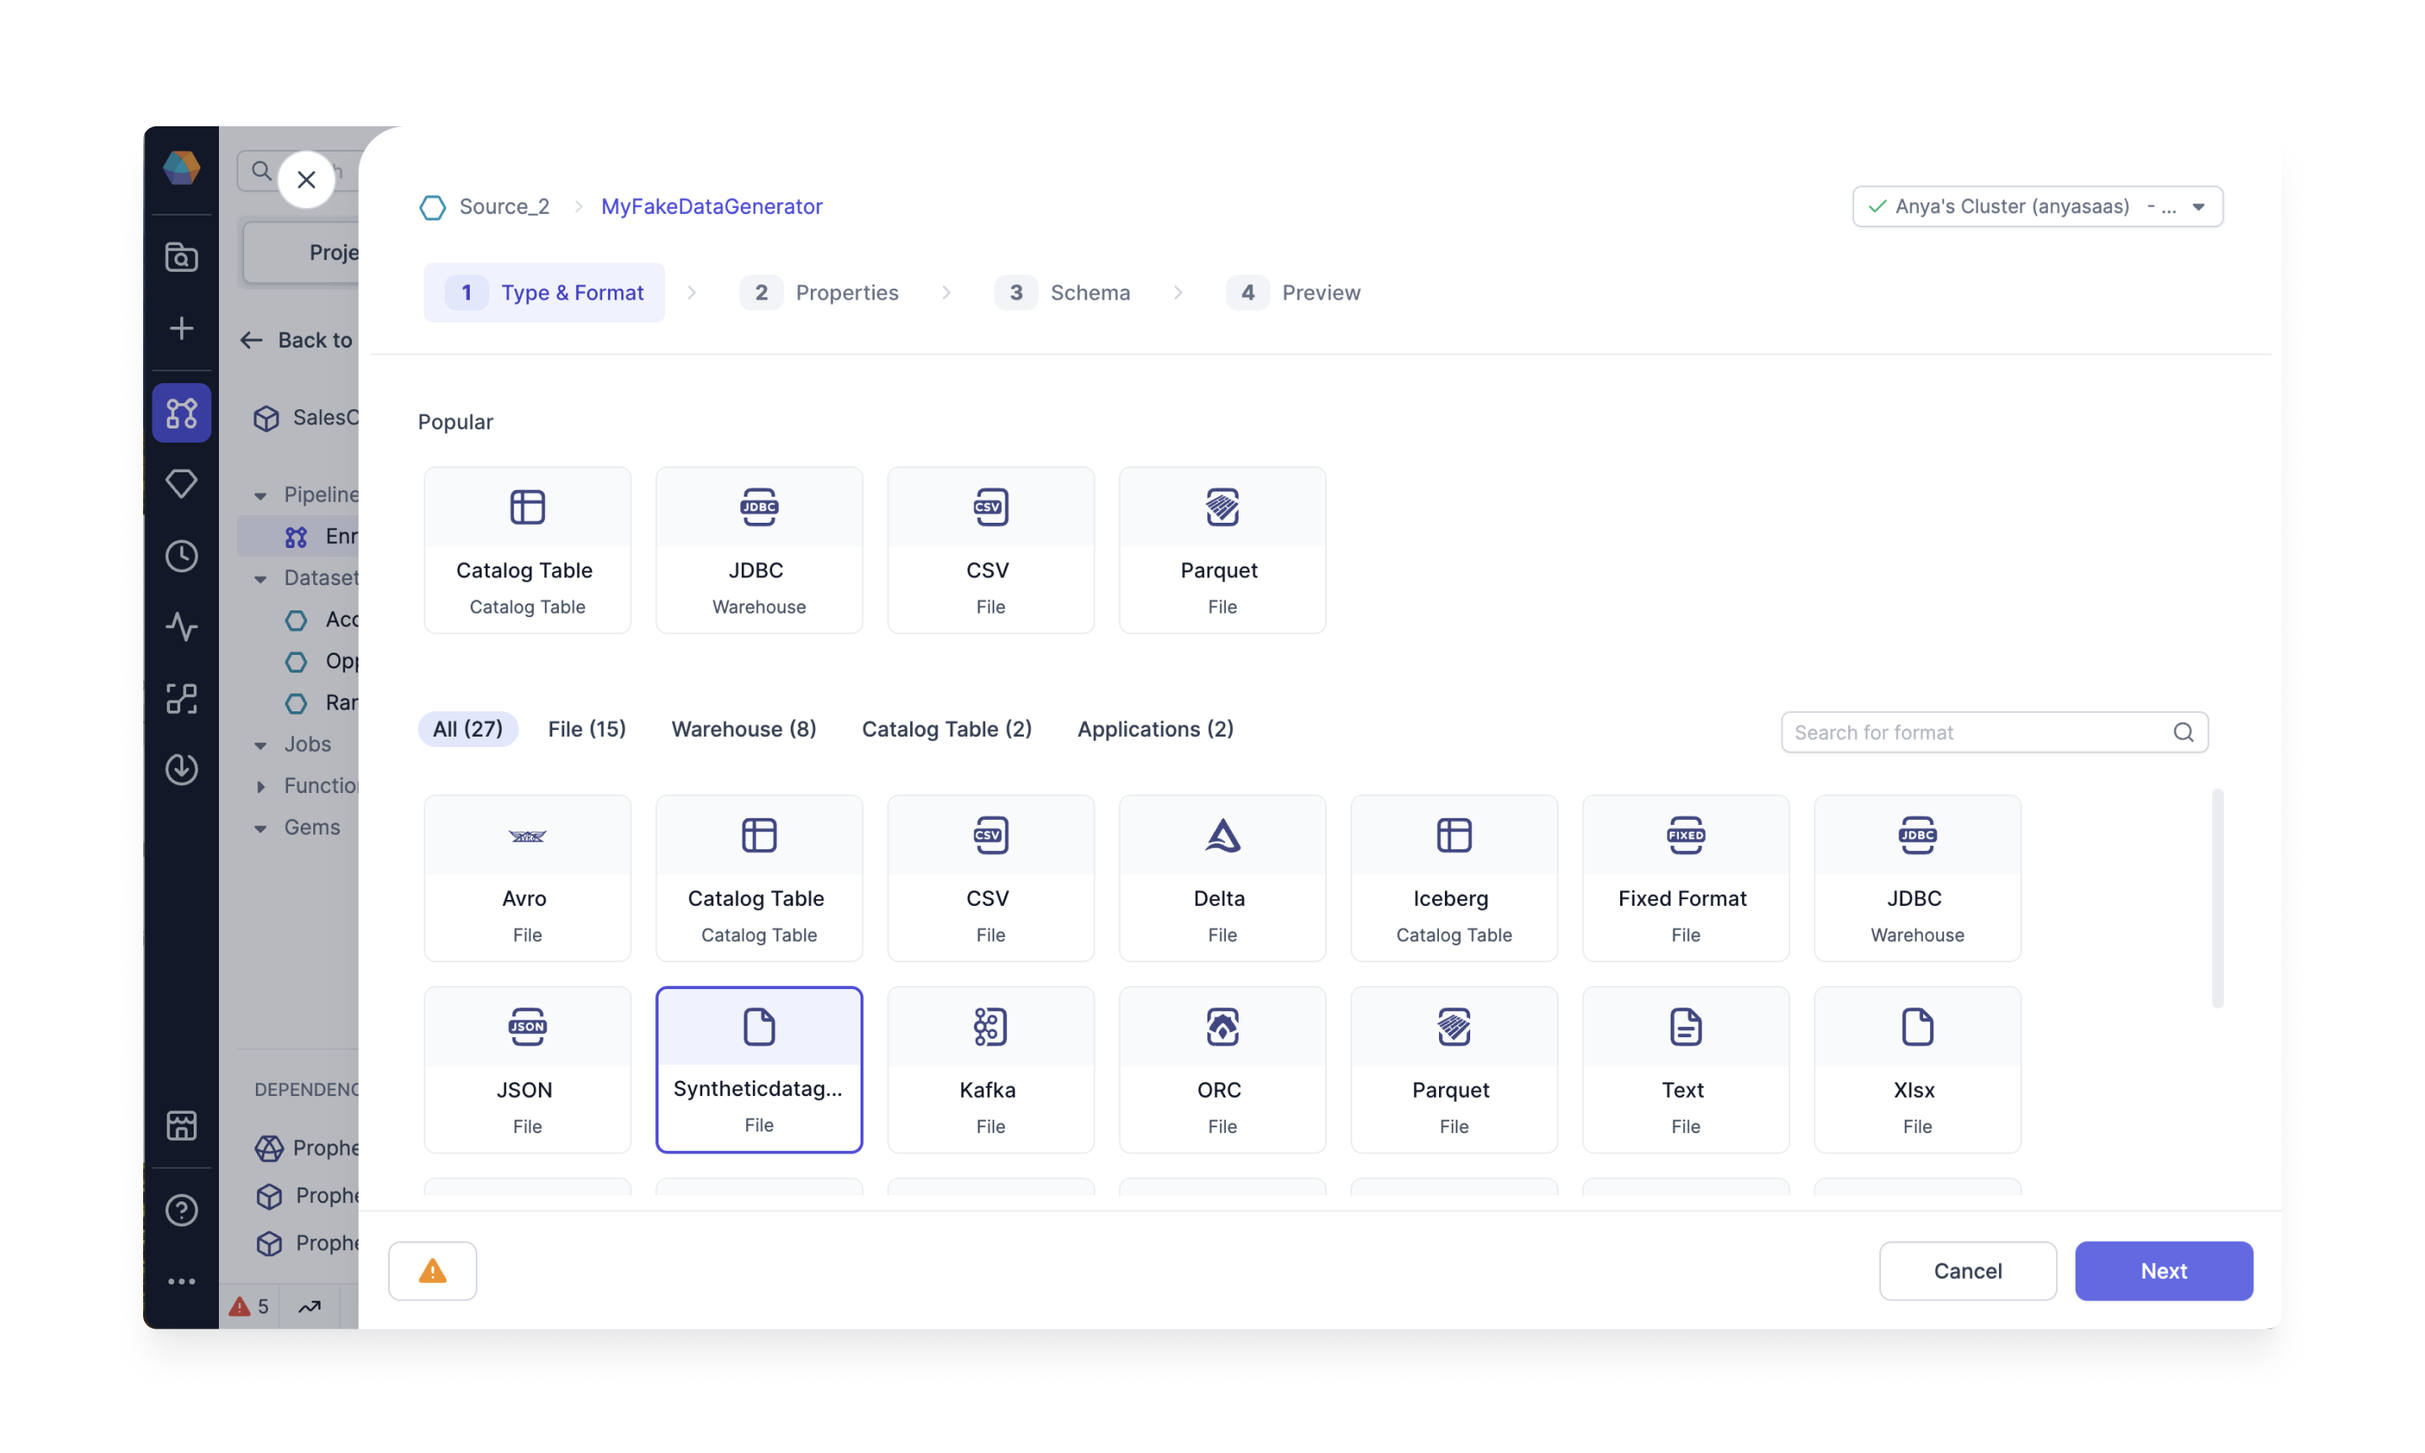
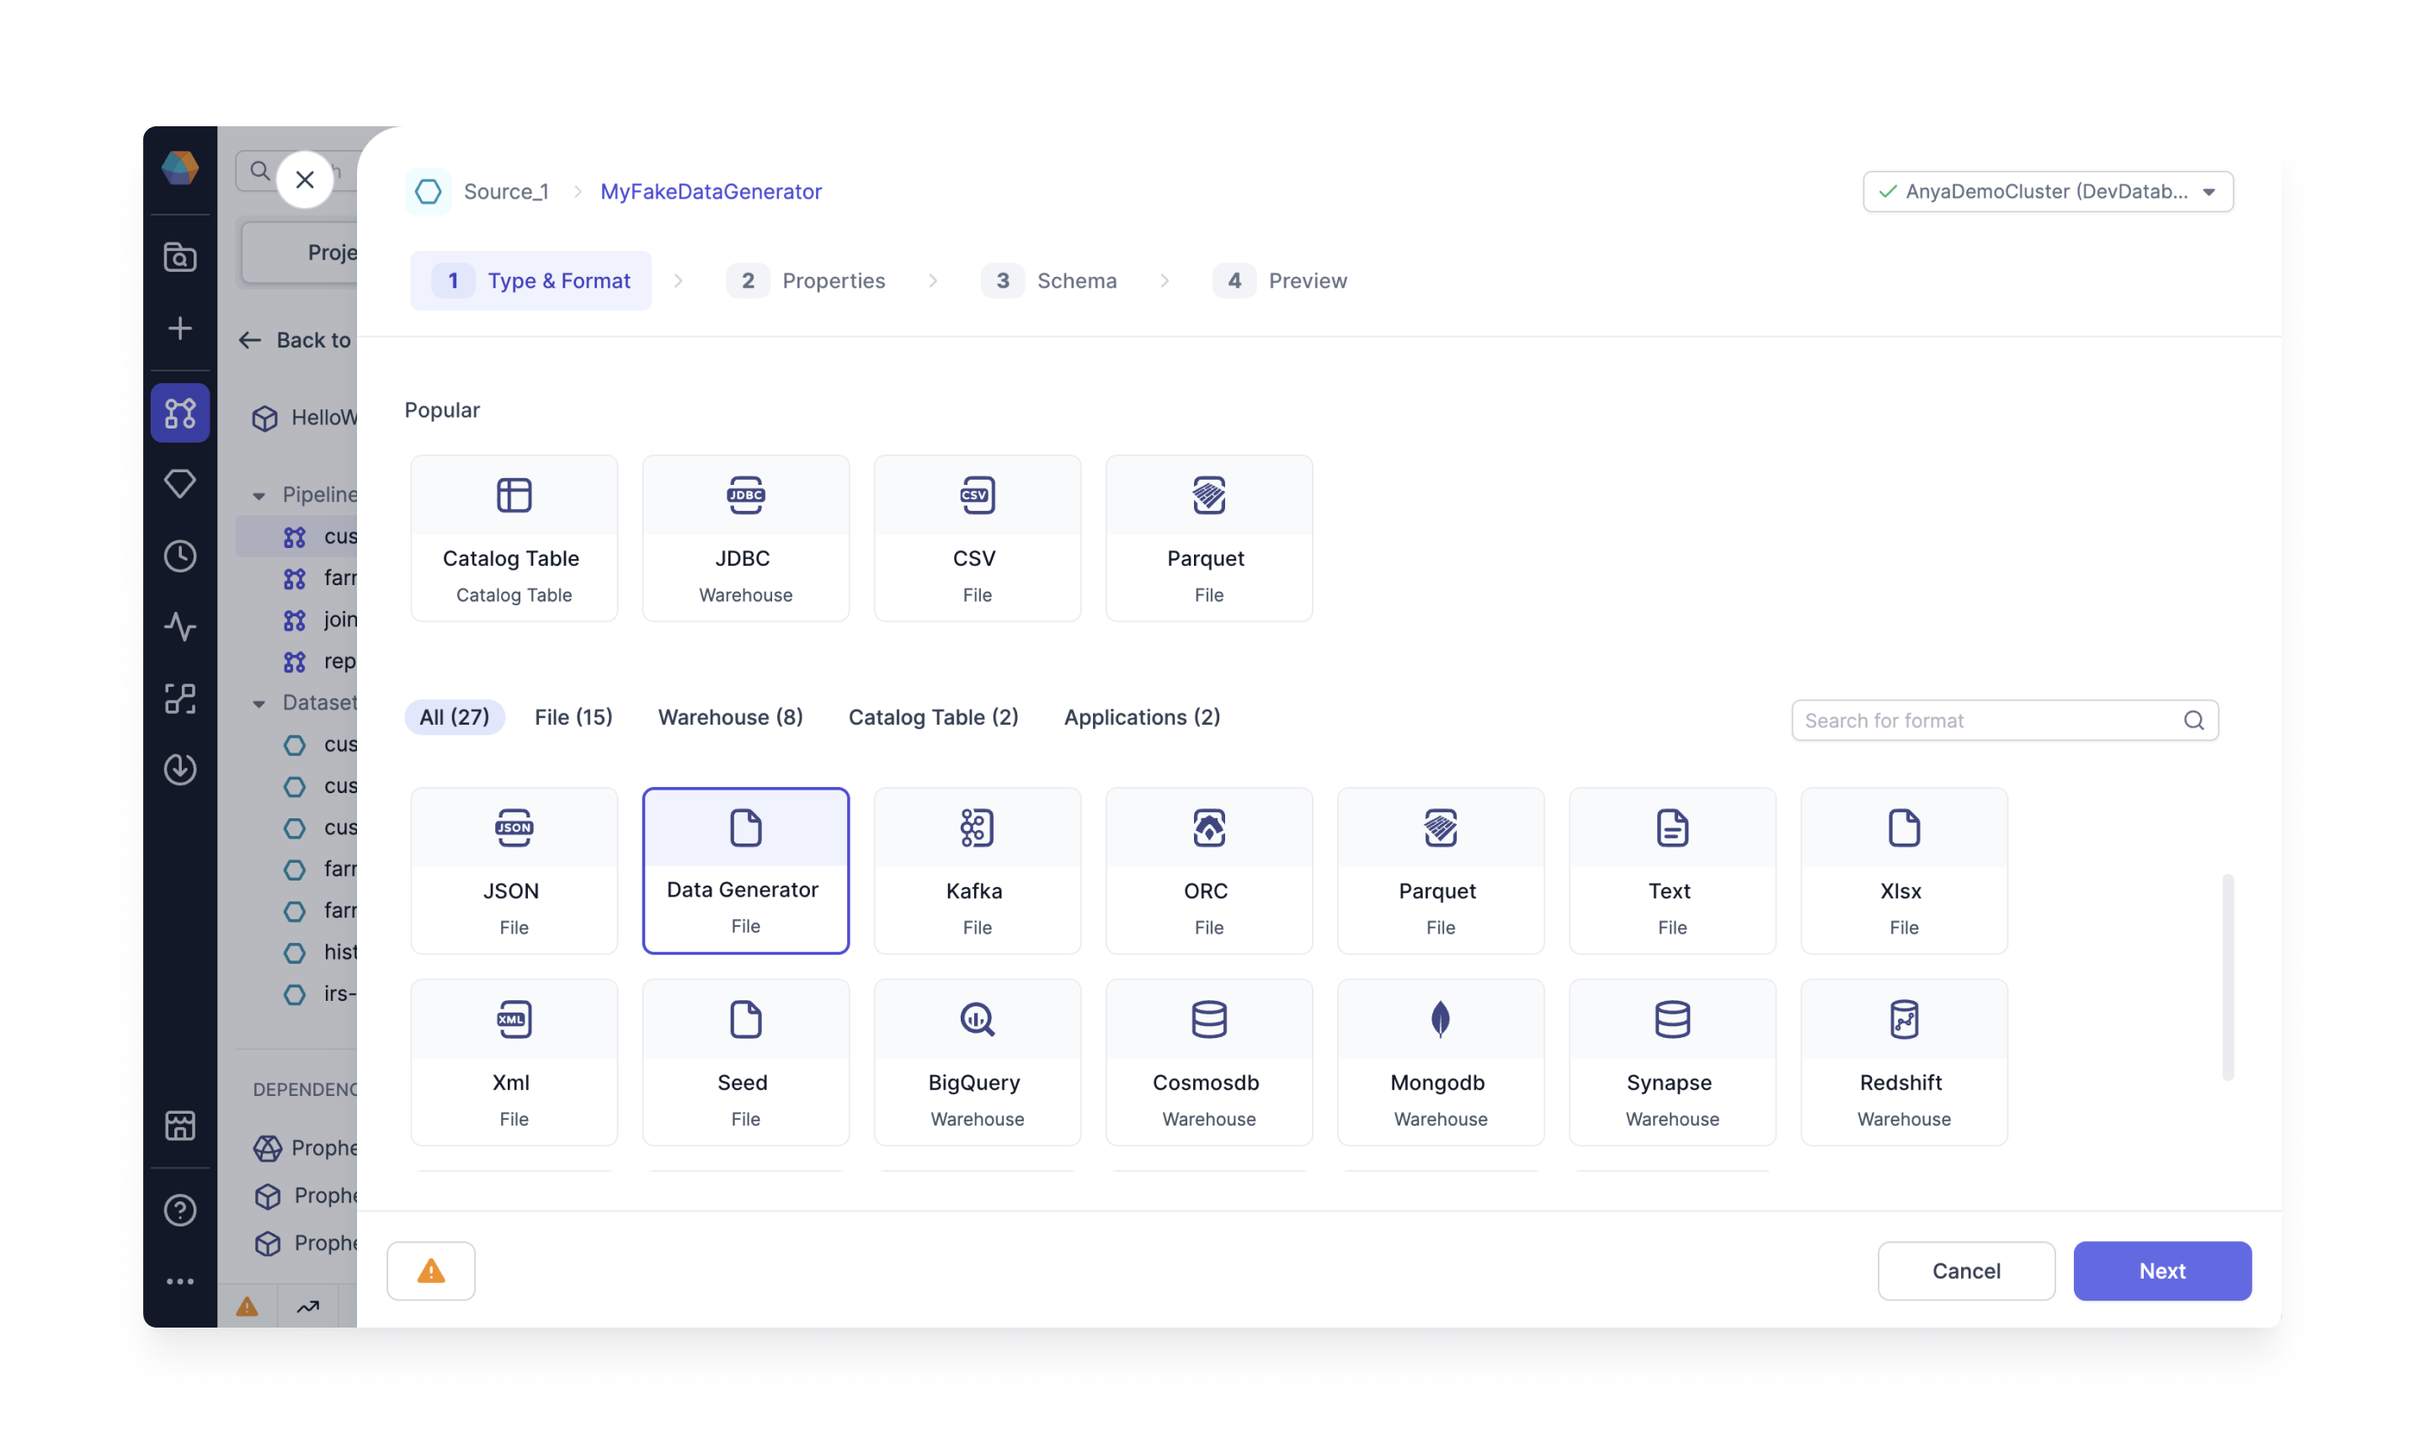
update synth data gen doc

diff --git a/docs/Spark/gems/source-target/advanced/synthetic-data-generator/providers.md b/docs/Spark/gems/source-target/advanced/synthetic-data-generator/providers.md
@@ -19,14 +19,14 @@ To generate a new column of random data, select one of the [providers](#provider
 
 | Data Provider             | Description                                                                                                                                                                                                                                                 |
 | ------------------------- | ----------------------------------------------------------------------------------------------------------------------------------------------------------------------------------------------------------------------------------------------------------- |
-| Random Name               | Generates random names. Select Full Name, First Name, Last Name as the sub-types.                                                                                                                                                                           |
-| Random Address            | Generates random addresses                                                                                                                                                                                                                                  |
-| Random Email              | Generates random emails                                                                                                                                                                                                                                     |
-| Random Phone Number       | Generates random phone numbers based on specified or default pattern. Example: specify the pattern for a phone number as (###) ###-####                                                                                                                     |
-| Random String UUID        | Generates random uuids in string form.                                                                                                                                                                                                                      |
-| Random Boolean Values     | Generates random boolean values (True/False). TODO                                                                                                                                                                                                          |
-| Random Integer Numbers    | Generates random integers within the range from Start Value to End Value. TODO                                                                                                                                                                              |
-| Random Elements From List | Generates random values from the list of values. Just type into the `List Of Values` feild. TODO                                                                                                                                                            |
+| Random Name               | Generates random names. Select Full Name, First Name, or Last Name as the sub-types.                                                                                                                                                                        |
+| Random Address            | Generates random addresses.                                                                                                                                                                                                                                 |
+| Random Email              | Generates random emails.                                                                                                                                                                                                                                    |
+| Random Phone Number       | Generates random phone numbers based on specified or default pattern. Example: specify the pattern for a phone number as (###) ###-####.                                                                                                                    |
+| Random String UUID        | Generates random UUIDs in string form.                                                                                                                                                                                                                      |
+| Random Boolean Values     | Generates random boolean values (True/False).                                                                                                                                                                                                               |
+| Random Integer Numbers    | Generates random integers within the range from Start Value to End Value.                                                                                                                                                                                   |
+| Random Elements From List | Generates random values from the list of values. Just type into the `List Of Values` field.                                                                                                                                                                 |
 | Random Date               | Generates random dates within the given range.                                                                                                                                                                                                              |
 | Random DateTime           | Generates random datetime values within the given range.                                                                                                                                                                                                    |
 | Random Foreign Key Values | Picks values randomly from specified foreign key column. Select another table to act as the reference table and provide the location, e.g., `catalog`.`database`.`table`. Select any column from the reference table to designate as Reference Column Name. |
@@ -35,8 +35,8 @@ To generate a new column of random data, select one of the [providers](#provider
 
 Properties common to all providers
 
-| Name                       | Description                                                                          |
-| -------------------------- | ------------------------------------------------------------------------------------ |
-| Column Name                | Custom name for the output column                                                    |
-| Data Type                  | Data type of output column                                                           |
-| Null Percentage (Optional) | X percent of values will be populated as null in generated column based on Row Count |
+| Name                       | Description                                                                           |
+| -------------------------- | ------------------------------------------------------------------------------------- |
+| Column Name                | Custom name for the output column.                                                    |
+| Data Type                  | Data type of output column.                                                           |
+| Null Percentage (Optional) | X percent of values will be populated as null in generated column based on Row Count. |

diff --git a/docs/Spark/gems/source-target/advanced/synthetic-data-generator/synthetic-data-generator.md b/docs/Spark/gems/source-target/advanced/synthetic-data-generator/synthetic-data-generator.md
@@ -1,6 +1,6 @@
 ---
-title: Synthetic Data Generator
-id: synthetic-data-generator
+title: Data Generator
+id: data-generator
 description: Don't have the right data? Create some!
 sidebar_position: 1
 tags:
@@ -15,22 +15,44 @@ Generate synthetic data with this special kind of Source Gem.
 
 Generating mock data is crucial when building data Pipelines to simulate real-world scenarios for testing, validating, and optimizing Pipeline performance before using actual production data. It helps ensure the Pipeline handles various data formats, structures, and edge cases effectively, minimizing potential issues in a live environment.
 
-A wide range of synthetic data can be created using any column name and an array of datatypes. For example, generate browser history which tracks fictitious devices and the details on when that device visits a particular website with a particular click count and frequency.
+A wide range of synthetic data can be created using any column name and an array of data types. For example, generate browser history to track fictitious devices and the details on when that device visits a particular website with a particular click count and frequency.
 
 ![img](../../../img/synth_0_datasample.png)
 
-Follow the steps below to generate your own mock data using the Synthetic Data Generator Gem.
+Follow the steps below to generate your own mock data using the Data Generator Gem.
+
+## Cluster requirements
+
+Create a Fabric and configure the [Job Size](/docs/Spark/fabrics/databricks.md) as below, or log into an existing Spark cluster UI. Here we use Databricks as an example.
+
+1. Verify the Databricks Runtime uses Python version >= 3.8.
+   For example, [Databricks Runtime 12.2 LTS](https://docs.databricks.com/en/release-notes/runtime/12.2lts.html) uses Python 3.9.19. If you are using Databricks Runtime 12.2+, the Python version meets this requirement.
+2. Create a new Environment variable called "SPARK_VERSION" with value 3.3
+3. Confirm and restart the Spark cluster.
+   ![requirements](../../../img/synth_0_1_requirements.png)
+
+## Prophecy requirements
+
+Open a Prophecy Project and upgrade the `ProphecySparkBasicsPython` Dependency to `0.2.34` or later. Connecting a Prophecy project to a Spark cluster with a different dependency version will prompt a cluster restart. Ideally this is a one-time restart, and you're ready to proceed!
+
+![img](../../../img/synth_0_2_proph_reqiuirements.png)
+
+:::caution Caution
+Using two Prophecy projects with the same Spark cluster will cause cluster restarts (when each project attaches to the cluster) unless the `ProphecySparkBasicsPython` versions match across both Projects. The same caution applies to `ProphecyLibsPython` versions.
+
+_The Fix:_ Do yourself a favor and upgrade all your Prophecy projects to the same `ProphecySparkBasicsPython` and `ProphecyLibsPython` versions or use separate Spark clusters.
+:::
 
 ## Create the Gem
 
-Create a new Dataset and select the Type as Synthetic Data Generator. Note we are not specifying a storage location yet; we will [store the data](#store-the-data) in a separate Gem.  
+Create a new Dataset and select the Type as Data Generator. Note we are not specifying a storage location yet; we will [store the data](#store-the-data) in a separate Gem.  
 ![img](../../../img/synth_1_new_dataset.png)
 
 ![img](../../../img/synth_2_type.png)
 
 ### Properties: Specify Data Structure
 
-What type of data do you need to generated? Specify the data structure using Random Data Providers. Prophecy offers a selection of [Random Data Providers](./providers) including integers, booleans, and elements from a list.
+What type of data do you need to generate? Specify the data structure using Random Data Providers. Prophecy offers a selection of [Random Data Providers](./providers) including integers, booleans, and elements from a list.
 
 ![img](../../../img/synth_3_properties.png)
 
@@ -40,21 +62,21 @@ Changes to the columns in the Properties tab are incorporated by inferring the s
 
 ### Preview the data
 
-This Gem returns a DataFrame with randomly generated values. Preview the first few records to verify the schema is correct. Save the Gem.
+This Gem returns a DataFrame with randomly generated values. Preview the first few records to verify the schema is correct. Then save the Gem.
 
 ## Store the data
 
-The newly generated data from the Synthetic Data Generator Gem is not saved by default. Store the data using the Target Gem.
+The newly generated data from the Data Generator Gem is not saved by default. Store the data (use your favorite file type!) using the Target Gem.
 
 Create the target Gem.
 ![img](../../../img/synth_4_new_target.png)
 
-Connect the Synthetic Data Generator SOURCE Gem to the Target Gem.
+Connect the Data Generator SOURCE Gem to the Target Gem.
 ![img](../../../img/synth_5_connect_target.png)
 
-Be sure to configure the write mode for the target Gem. This is **very important** because the Synthetic Data Generator Gem is **not** idempotent. There is a **new seed** each time the Gem is run.
+Be sure to configure the write mode for the target Gem. This is **very important** because the Data Generator Gem is **not** idempotent. There is a **new random seed** each time the Gem is run.
 ![img](../../../img/synth_6_write_mode.png)
 
 :::caution
-The Synthetic Data Generator only generates the data. If you want to store the data just connect the output to a target Gem and configure the location, write properties etc. In particular, consider the data is generated again for each run. The target write mode can be error, overwrite, append, or ignore as desired.
+The Data Generator only generates the data. If you want to store the data just connect the output to a target Gem and configure the location, write properties etc. The data generated is new for each run (execution). The target write mode can be error, overwrite, append, or ignore as desired.
 :::
